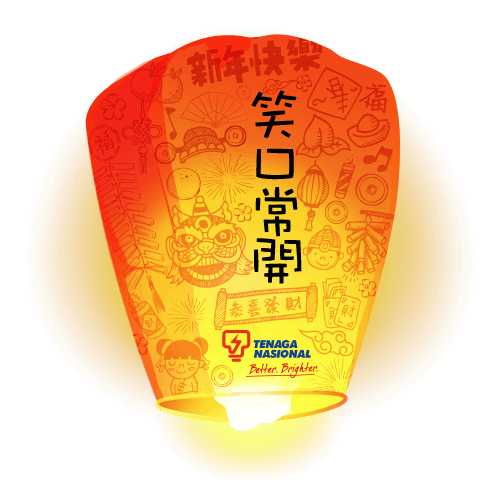
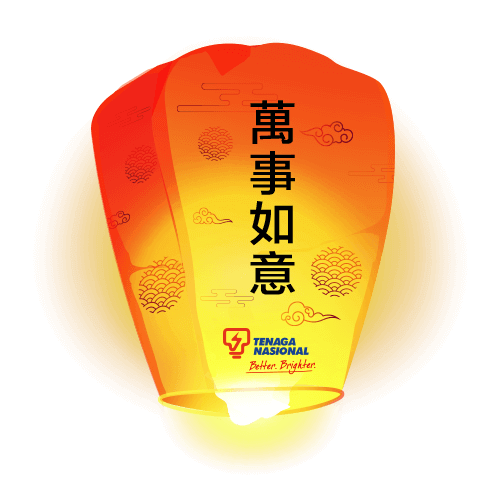
scene 1 and scene 2 styling  -yk

Changed region(s): [[0.15, 0.0625, 0.81, 0.9062], [0.39, 0.9375, 0.6, 1.0]]

diff --git a/src/main.js b/src/main.js
@@ -1,3 +1,4 @@
+/* eslint-disable */
 /* eslint-disable no-console */
 /* global window */
 import Vue from 'vue';
@@ -12,9 +13,10 @@ class AdUnit extends Mads {
 
     // Scene 1
     scenes.push(`
-      <div class="img-start"><img class="img-fluid" src="${this.resolve('img/scene1/img-start.png')}" /></div>
-      <div class="cta-fill"><img class="img-fluid" src="${this.resolve('img/scene1/cta-fill.png')}" /></div>
-      <div class="btn-start"><img class="img-fluid" @click="next()" src="${this.resolve('img/scene1/btn-start.png')}" /></div>
+      <div class="header"></div>
+      <div class="img-start"><img class="img-fluid" src="${this.resolve('img/scene1/big-lantern.png')}" /></div>
+      <div class="cta-fill"><img class="img-fluid" src="${this.resolve('img/scene1/cta-fill2.png')}" /></div>
+      <div class="btn-start"><button @click="next()">START NOW</button></div>
       <div class="or-explore"><button class="btn btn-link text-light">or explore the sky or wishes</button></div>
     `);
 
@@ -22,6 +24,7 @@ class AdUnit extends Mads {
 
     // Scene 2
     scenes.push(`
+      <div class="header"></div>
       <div class="cta-choose"><img class="img-fluid" src="${this.resolve('img/scene2/cta-choose.png')}" /></div>
       <div class="lang-select">
         <img @click="changeLang('ch')" src="${this.resolve('img/scene2/mandarin.png')}" />
@@ -33,11 +36,12 @@ class AdUnit extends Mads {
         </div>
       </div>
       <div class="cta-swipe"><img class="img-fluid" src="${this.resolve('img/scene2/cta-swipe.png')}" /></div>
-      <div class="btn-done"><img class="img-fluid" @click="next(3, 1)" src="${this.resolve('img/scene2/btn-done.png')}" /></div>
+      <div class="btn-done" @click="next(3, 1)">DONE</div>
     `);
 
     // Scene 3
     scenes.push(`
+      <div class="header"></div>
       <div class="cta-send-off" v-if="subScene === 1"><img class="img-fluid" src="${this.resolve('img/scene3/cta-send-off.png')}" /></div>
       <div class="cta-send-off" v-if="subScene === 2"><img class="img-fluid" src="${this.resolve('img/scene4/cta-lantern.png')}" /></div>
       <div class="img-selected" @click="subTwoClick()"><img class="img-fluid" ref="img-selected" :src='selectedImg' /></div>
@@ -68,6 +72,8 @@ class AdUnit extends Mads {
 
     // Scene 4
     scenes.push(`
+      <div class="header"></div>
+      <div class="bg-lantern"><img class="img-fluid" src="${this.resolve('img/scene4/img-lanterns.png')}" /></div>
       <div class="cta-wish"><img class="img-fluid" src="${this.resolve('img/scene6/cta-catch.png')}" /></div>
       <div class="cta-swipe"><img class="img-fluid" src="${this.resolve('img/scene6/cta-swipe.png')}" /></div>
       <div class="actions">
@@ -78,6 +84,7 @@ class AdUnit extends Mads {
 
     // Scene 5
     scenes.push(`
+        <div class="header"></div>
         <img class="img-fluid" src="${this.resolve('img/scene7/cta-another.png')}" />
         <div class="actions">
           <a href="https://www.youtube.com/watch?v=jpqT1dNOAp8"><img class="img-fluid" src="${this.resolve('img/scene6/btn-watch.png')}" /></a>
@@ -101,7 +108,7 @@ class AdUnit extends Mads {
     this.vue = new Vue({
       el: '#ad-container',
       data: {
-        scene: 1,
+        scene: 4,
         subScene: 1,
         selectedImg: root.resolve('img/scene2/lantern-eng-1.png'),
         sceneTransition: 'scene-default',
@@ -128,6 +135,7 @@ class AdUnit extends Mads {
                       breakpoint: 600,
                       settings: {
                         slidesToShow: 1,
+                        slidesToScroll: 1,
                         centerPadding: '100px',
                       },
                     },
@@ -233,6 +241,19 @@ class AdUnit extends Mads {
         body {
           background-image: url(${this.resolve('img/bg-desktop.png')});
         }
+      }
+
+      #scene1 .img-start {
+        background-image: url(${this.resolve('img/scene1/sky-lanterns.png')});
+        background-size: contain;
+        background-repeat: no-repeat;
+        background-position: center top;
+      }
+
+      .scenes .header {
+        background-image: url(${this.resolve('img/logo.png')});
+        background-repeat: no-repeat;
+        background-size: contain;
       }
       `];
   }

diff --git a/src/css/scene2.scss b/src/css/scene2.scss
@@ -1,28 +1,84 @@
 #scene2 {
   .content {
+    display: block;
     > div {
       &.lang-select {
         flex-direction: row;
       }
     }
+    
+    > div {
+      > img {
+        height: 100%;
+      }
+    }
+
+    .cta-choose {
+      padding-top: 2%;
+      height: 20%;
+    }
+
+    .lang-select {
+      padding-top: 5px;
+
+      img {
+        height: 25px;
+      }
+    }
+
+    .cta-swipe {
+      height: 20%;
+
+      img {
+        margin-top: -25px;
+      }
+    }
+
     .lantern-wrapper {
       max-width: 100%;
+      height: 40%;
       .lantern-select {
         max-width: 100%;
         .slick-slide {
           padding-top: 50px;
           text-align: center;
+          position: relative;
           &.slick-center img {
-            transform: scale(1.08);
+            transform: translate(-50%, -50%) scale(1.08);
           }
           img {
             transition: transform 0.5s;
             margin: 0 auto;
             width: 100%;
+            /*height: 100%;*/
+            position: absolute;
+            top: 50%;
+            left: 50%;
+            transform: translate(-50%, -50%);
             max-width: 200px;
           }
         }
       }
+
+      .slick-slider, .slick-list, .slick-track {
+        height: 100%;
+      }
+    }
+
+    .btn-done {
+      height: 50px;
+      position: absolute;
+      bottom: 0px;
+      width: 100%;
+      color: white;
+      font-weight: 600;
+      padding-top: 14px;
+      background-color: rgba(0,0,0,0.3);
+    }
+
+    .btn-done:hover {
+      cursor: pointer;
+      background-color: rgba(0,0,0,0.7);
     }
   }
 }

diff --git a/src/css/scene1.scss b/src/css/scene1.scss
@@ -1,5 +1,5 @@
 /* --- Scene 1 */
-#scene1 .content {
+/*#scene1 .content {
   // img {
   //   width: 95%;
   //   object-fit: contain;
@@ -13,5 +13,58 @@
   //   align-items: center;
   //   align-self: center;
   // }
-}
+}*/
 /* /-- Scene 1 */
+
+#scene1 .content {
+  img {
+    display: block;
+    object-fit: cover;
+    object-position: 50% 50%;
+    margin: auto;
+    height: 100%;
+  }
+
+  div {
+    display: block;
+  }
+
+  .img-start {
+    height: 55%;
+    position: relative;
+
+    img {
+      position: absolute;
+      bottom: -15px;
+      height: 80%;
+      left: 50%;
+      transform: translateX(-50%);
+    }
+  }
+  
+  .cta-fill {
+    height: 27%;
+  }
+
+  .btn-start {
+    padding-top: 2%;
+    box-sizing: border-box;
+    
+    button {
+      background-color: #FBED20;
+      border: none;
+      border-radius: 18px;
+      width: 260px;
+      height: 40px;
+      font-weight: 600;
+      outline: none;
+      transition: all 0.3s;
+    }
+
+    button:hover {
+      cursor: pointer;
+      background-color: white;
+    }
+  }
+
+}

diff --git a/src/css/_root.scss b/src/css/_root.scss
@@ -28,11 +28,11 @@ body {
   height: 100%;
   width: 100%;
   overflow: hidden;
-  @media screen and (min-width: 1024px) {
+  /*@media screen and (min-width: 1024px) {
     width: 50%;
     left: 50%;
     transform: translateX(-50%);
-  }
+  }*/
   text-align: center;
   display: flex;
   justify-content: center;
@@ -50,9 +50,10 @@ body {
     position: relative;
     display: flex;
     flex-flow: column;
-    max-height: 100%;
+    /*max-height: 100%;*/
+    height: 100%;
 
-    > div {
+    /*> div {
       display: flex;
       flex: 0 1 auto;
       flex-flow: column;
@@ -68,6 +69,11 @@ body {
         object-fit: scale-down;
         object-position: top right;
       }
+    }*/
+
+    .header {
+      height: 45px;
+      background-color: white;
     }
   }
 }

diff --git a/src/css/scene4.scss b/src/css/scene4.scss
@@ -1,6 +1,7 @@
 #scene4 {
   .content {
-    padding-bottom: 5rem;
-    padding-top: 5rem;
+/*    padding-bottom: 5rem;
+    padding-top: 5rem;*/
+    display: block;
   }
 }
